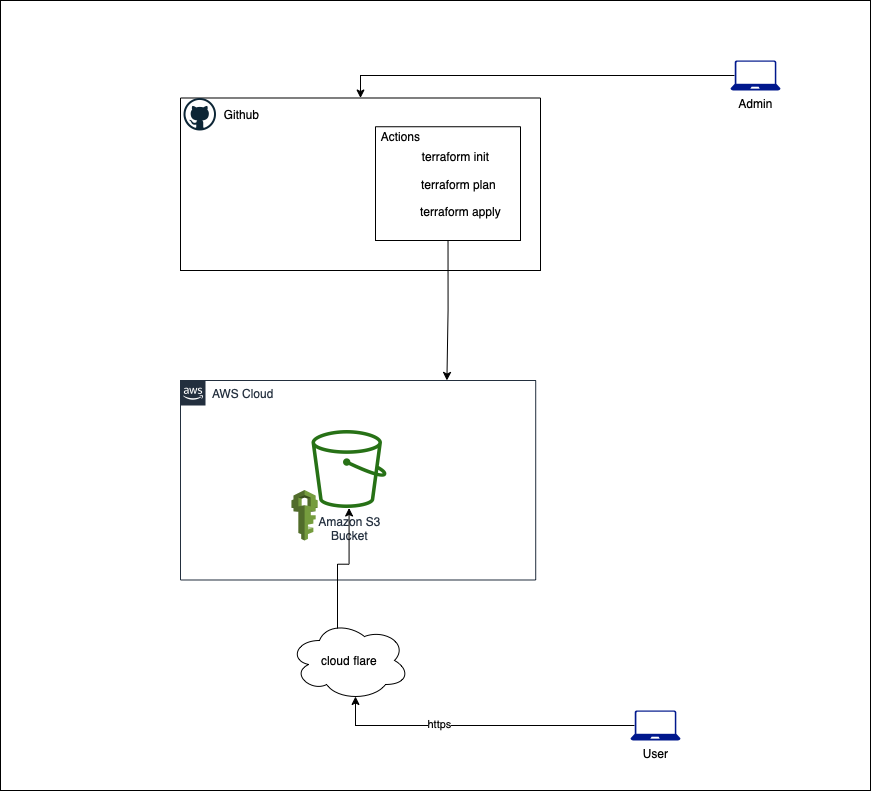
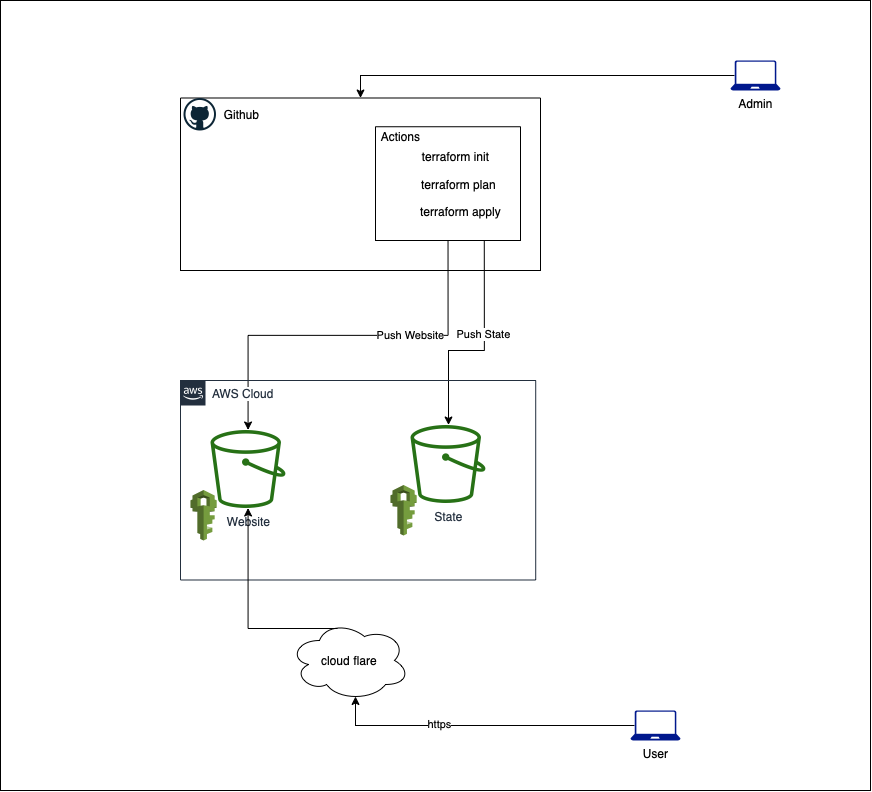
update readme

Changed region(s): [[0.2167, 0.5152, 0.5573, 0.697], [0.4644, 0.3939, 0.5883, 0.4848], [0.2167, 0.6061, 0.3096, 0.697]]

diff --git a/README.md b/README.md
@@ -1,26 +1,166 @@
 # Personal Link Page
 
-I wanted a linktree like page but with my own domain and automated deployment with the cheapest method possible (s3 bucket). With S3 you also [pay per 1k requests](https://aws.amazon.com/s3/pricing/), with that we put cloudflare in front to prevent ddos and paying for more than you anticipated.
+I wanted a linktree like page but with my own domain and automated deployment with the cheapest method possible (s3
+bucket). With S3 you also [pay per 1k requests](https://aws.amazon.com/s3/pricing/), with that we put cloudflare in
+front to prevent ddos and paying for more than you anticipated.
 
 ## How does it work
 
 ![pic](linktree.png)
 
-We have github actions in the background listening for events pushed to the main branch, when you make a push it will deploy the infrastructure. 
+We have github actions in the background listening for events pushed to the main branch, when you make a push it will
+deploy the infrastructure.
 
 ## How to get started
 
 ### AWS
 
-We need to create a policy that allows github to make changes to your aws account. We will go with the policy of least privilege. Here are the services we need access to and the changes we need to make
+We need to create an IAM user, from there create an inline policy that allows github to make changes to your aws
+account. We will go with the policy of least privilege. Here are the services we need access to and the changes we need
+to make
 
+| Service  | Permissions                                                                                                                                                          |
+|----------|----------------------------------------------------------------------------------------------------------------------------------------------------------------------|
+| S3       | PutObject<br/>Get*<br/>PutBucketWebsite<br/>PutBucketAcl<br/>PutBucketPolicy<br/>CreateBucket<br/>ListBucket<br/>PutBucketCORS<br/>PutBucketTagging<br/>DeleteObject |
 
+#### How will it look in AWS?
+
+*Please note your bucket name has to be the domain name you are using or else it won't work
+
+```json
+{
+  "Version": "2012-10-17",
+  "Statement": [
+    {
+      "Sid": "GitHub",
+      "Effect": "Allow",
+      "Action": [
+        "s3:PutObject",
+        "s3:PutBucketWebsite",
+        "s3:PutBucketTagging",
+        "s3:PutBucketPolicy",
+        "s3:PutBucketCORS",
+        "s3:PutBucketAcl",
+        "s3:ListBucket",
+        "s3:Get*",
+        "s3:CreateBucket"
+      ],
+      "Resource": [
+        "arn:aws:s3:::(Change me to your domain name)/*", <- This is your s3 website bucket
+        "arn:aws:s3:::(change me to your domain name)" <- This is your s3 website bucket
+      ]
+    },
+    {
+      "Sid": "Backend Permissions",
+      "Effect": "Allow",
+      "Action": [
+        "s3:ListBucket",
+        "s3:GetObject",
+        "s3:PutObject",
+        "s3:DeleteObject"
+      ],
+      "Resource": [
+        "arn:aws:s3:::(terraform state bucket)/(Change me to your domain name)/*", <- This is your terraform state bucket and website key
+        "arn:aws:s3:::(terraform state bucket)" <- This is your terraform state bucket 
+      ]
+    }
+  ]
+}
+```
+
+What is the purpose of this policy?
+
+We want to give github the least privileges possible. Github has access to read the objects for your website and put objects there, but not delete. To delete you go into your account and delete what you need to. (still working on a github action to tear down the project)
+
+The backend has permission to delete only the state for your site, if you have other projects in your account github won't mess with them, unless you create an overly permissive policy.
+
+Once you create the policy you need to create the access key on the security credentials tab of the IAM user. Save those
+for a later step.
 
 ### Github
 
 Clone the repository and there's a few values to change.
 
+#### Everything in source folder
+
+In the source folder is all the html, css and image files and such. Change this to however you like. In case you add
+more files to the assets directory there might be a change in the terraform code you would need to make.
+
+On line 70 - 84
+
+```terraform
+resource "aws_s3_object" "linktree_assets" {
+  for_each     = fileset(path.module, "source/assets/*")
+  source       = each.value
+  bucket       = aws_s3_bucket.assets.bucket
+  key          = trim(each.value, "source/")
+  source_hash  = filemd5(each.value)
+  content_type = lookup(
+    {
+      "png"         = "image/png",
+      "ico"         = "image/x-icon"
+      "webmanifest" = "text/plain"
+    },
+    split(".", each.value)[1],
+    "text/plain")
+}
+```
+
+This checks through each file in the assets directory and splits it after the "." to get the file extension, then it
+sets the content type based off the file type. If you have a file type different from png, ico or webmanifest and the
+content type isn't `text/plain` you will need to add it here.
+
+Example
+
+If you have a jpeg picture you added to the assets directory you would add `"jpeg" = "image/jpeg"` for it to properly
+load
+
+#### Environment Variables
+
+This is managed on the github side of things. You will need to go to your repository -> Settings -> Security -> Secrets
+-> Actions -> New Repository Secret
+
+There are 6 secrets to set, the naming convention below
+
+| Secret name              | Value                                                                  | 
+|--------------------------|------------------------------------------------------------------------|
+| AWS_ACCESS_KEY_ID        | Access Key copied earlier                                              |
+| AWS_REGION               | Region to deploy to                                                    |
+| AWS_S3_BUCKET            | This should be the name of your domain, otherwise there will be issues |
+| AWS_SECRET_ACCESS_KEY    | Secret Access Key copied earlier                                       |
+| TERRAFORM_BACKEND_BUCKET | This is the bucket we save the terraform live state                    |
+| TERRAFORM_BACKEND_KEY    | This is the location in the bucket that holds the live state           |
+
 ### Cloudflare
+
+#### Why cloudflare?
+
+They have a free tier, and you pay for more advanced features, more often then not you don't need those enterprise features. Create an account in cloudflare, I don't recommend purchasing domains via cloudflare, I tried once and I didn't get a whoisguard to protect my personal info and never purchased another domain there. I could of missed a step and you're more than happy to try.
+
+Otherwise once you create your account and you're in
+
+- Add a site
+  - Use your domain name
+  - Select the plan you want (I use free)
+  - At this point it will scan to ensure you have the correct DNS records. If you don't click continue and it will tell you what records to put in your registrar
+- Update DNS Records
+  - Go to DNS -> Add record
+  - Change Type to CNAME
+  - Change Name to subdomain of your domain
+  - Change Target to the full bucket name
+
+
+Example 
+
+I own the "roserie.me" domain, For my links page I use the subdomain links.roserie.me so I would change type to CNAME, Name to links and Target to full bucket name
+
+You can find the full bucket name going into the amazon console after you deployed the bucket.
+
+- Go to S3
+- Click into your bucket
+- Properties Tab
+- Scroll down to Static Website Hosting on the bottom of the page
+- Your bucket name is the Bucket Website Endpoint minus the `http://`
 
 ## Thanks
 
